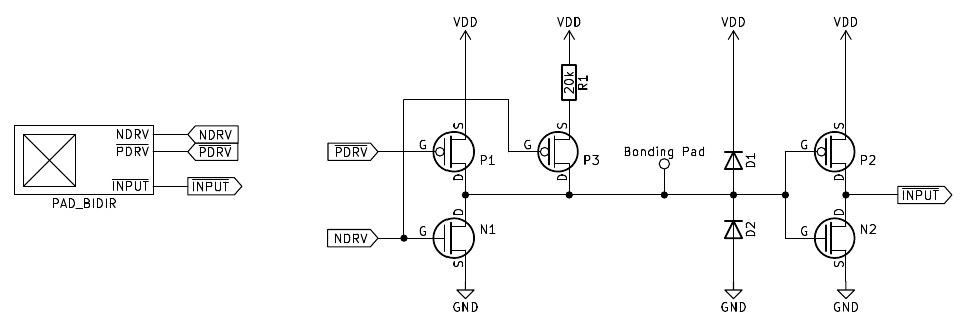
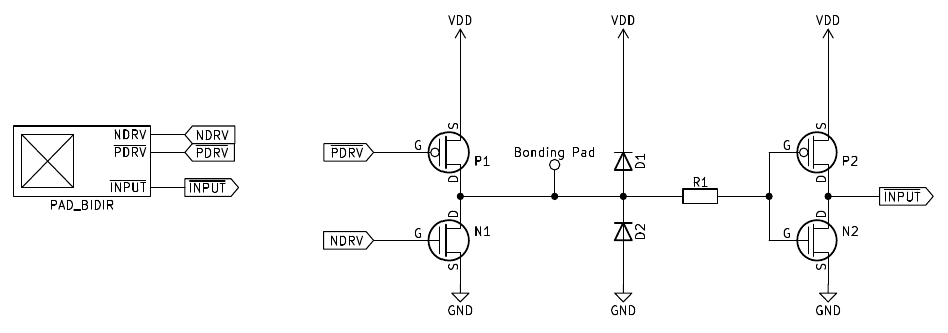
Fix PAD_BIDIR* cell documentation

diff --git a/doc/dmg_cells.html b/doc/dmg_cells.html
@@ -155,8 +155,8 @@ Some I/O pads were also renamed, because the names did not fit the official docu
  <li><a href="#pad">I/O pads</a>
   <ul>
    <li><a href="#pad_bidir">PAD_BIDIR</a> (A)</li>
-   <li><a href="#pad_bidir_ena_pu">PAD_BIDIR_ENA_PU</a> (B)</li>
-   <li><a href="#pad_bidir_sck">PAD_BIDIR_SCK</a> (C)</li>
+   <li><a href="#pad_bidir_pu">PAD_BIDIR_PU</a> (B)</li>
+   <li><a href="#pad_bidir_pu_latch">PAD_BIDIR_PU_LATCH</a> (C)</li>
    <li><a href="#pad_in">PAD_IN</a> (A)</li>
    <li><a href="#pad_in_pu">PAD_IN_PU</a> (B)</li>
    <li><a href="#pad_out">PAD_OUT</a> (A)</li>
@@ -5142,7 +5142,7 @@ face inwards.</p>
 <td>Inverted input state. Reads the inverted binary level at the I/O pad.</td></tr>
 </table></td></tr>
 </table>
-<p><img src="img/cells/pad_bidir_sch.png?v=0" alt=""></p>
+<p><img src="img/cells/pad_bidir_sch.png?v=1" alt=""></p>
 <p>Instances:
 <a href="/dmg_cpu_b_map/?view=c:a0">A0</a>
 <a href="/dmg_cpu_b_map/?view=c:a1">A1</a>
@@ -5167,12 +5167,12 @@ face inwards.</p>
 <a href="/dmg_cpu_b_map/?view=c:~%7Bwr%7D"><span style="text-decoration:overline">WR</span></a>
 (21 total)
 </p>
-<h3 id="pad_bidir_ena_pu"><a id="iobuf_b" aria-hidden="true"></a>PAD_BIDIR_ENA_PU (B)</h3>
+<h3 id="pad_bidir_pu"><a id="iobuf_b" aria-hidden="true"></a><a id="pad_bidir_ena_pu" aria-hidden="true"></a>PAD_BIDIR_PU (B)</h3>
 <p>Bidirectional pad with open-drain/-source capability and optional pull-up resistor.</p>
 <p>This cell is found all around the edge of the chip and is rotated (not mirrored!) so that the four connections
 face inwards.</p>
 <table>
-<tr><td><img src="img/cells/pad_bidir_ena_pu_sin_p13_sin_desc.png?v=0" style="min-width:350px;" alt=""></td>
+<tr><td><img src="img/cells/pad_bidir_pu_sin_p13_sin_desc.png?v=0" style="min-width:350px;" alt=""></td>
 <td><table class="default">
 <tr><th>I/O</th><th>Description</th></tr>
 <tr><td><i>NDRV</i></td>
@@ -5185,7 +5185,7 @@ face inwards.</p>
 <td>Inverted input state. Reads the inverted binary level at the I/O pad.</td></tr>
 </table></td></tr>
 </table>
-<p><img src="img/cells/pad_bidir_ena_pu_sch.png?v=0" alt=""></p>
+<p><img src="img/cells/pad_bidir_pu_sch.png?v=0" alt=""></p>
 <p>Instances:
 <a href="/dmg_cpu_b_map/?view=c:d0">D0</a>
 <a href="/dmg_cpu_b_map/?view=c:d1">D1</a>
@@ -5210,13 +5210,13 @@ face inwards.</p>
 <a href="/dmg_cpu_b_map/?view=c:sin">SIN</a>
 (21 total)
 </p>
-<h3 id="pad_bidir_sck"><a id="iobuf_c" aria-hidden="true"></a>PAD_BIDIR_SCK (C)</h3>
-<p>Bidirectional pad with open-drain/-source capability and optional pull-up resistor.</p>
+<h3 id="pad_bidir_pu_latch"><a id="iobuf_c" aria-hidden="true"></a><a id="pad_bidir_ena_pu_latch" aria-hidden="true"></a><a id="pad_bidir_sck" aria-hidden="true"></a>PAD_BIDIR_PU_LATCH (C)</h3>
+<p>Bidirectional pad with open-drain/-source capability, optional pull-up resistor, and input NAND latch.</p>
 <p>This cell is only used for <a href="/dmg_cpu_b_map/?view=c:sck">SCK</a>. In the die shot this picture was taken
 from, this pin is located at the right-hand side. For consistency across this documentation it is rotated
 here (not mirrored!).</p>
 <table>
-<tr><td><img src="img/cells/pad_bidir_sck_sck_desc.png?v=0" style="min-width:350px;" alt=""></td>
+<tr><td><img src="img/cells/pad_bidir_pu_latch_sck_desc.png?v=0" style="min-width:350px;" alt=""></td>
 <td><table class="default">
 <tr><th>I/O</th><th>Description</th></tr>
 <tr><td><i>NDRV</i></td>
@@ -5229,7 +5229,7 @@ here (not mirrored!).</p>
 <td>Inverted input state. Reads the inverted binary level at the I/O pad.</td></tr>
 </table></td></tr>
 </table>
-<!--<p><img src="img/cells/pad_bidir_sck_sch.png?v=0" alt=""></p>-->
+<p><img src="img/cells/pad_bidir_pu_latch_sch.png?v=0" alt=""></p>
 <p>Instances:
 <a href="/dmg_cpu_b_map/?view=c:sck">SCK</a>
 (1 total)
